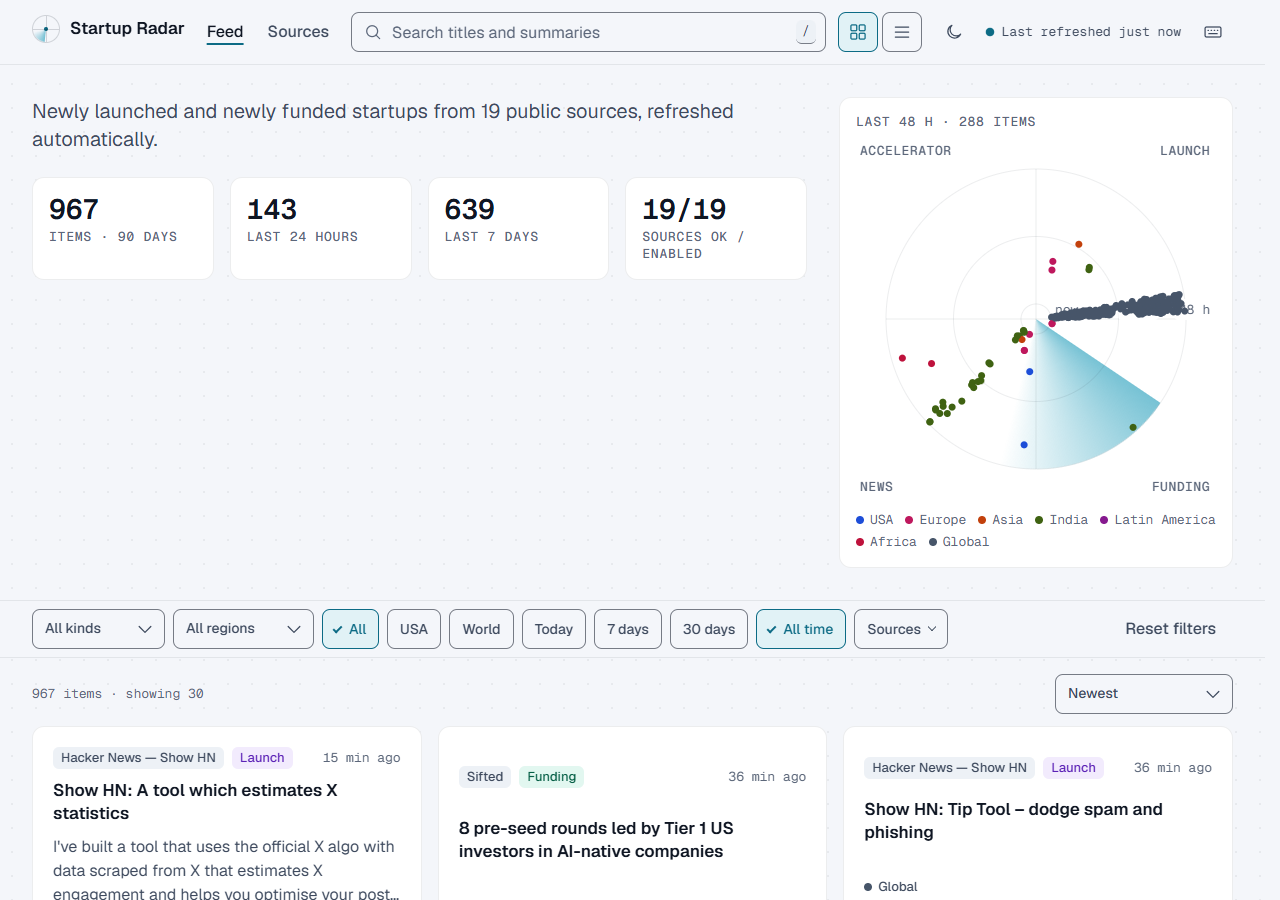
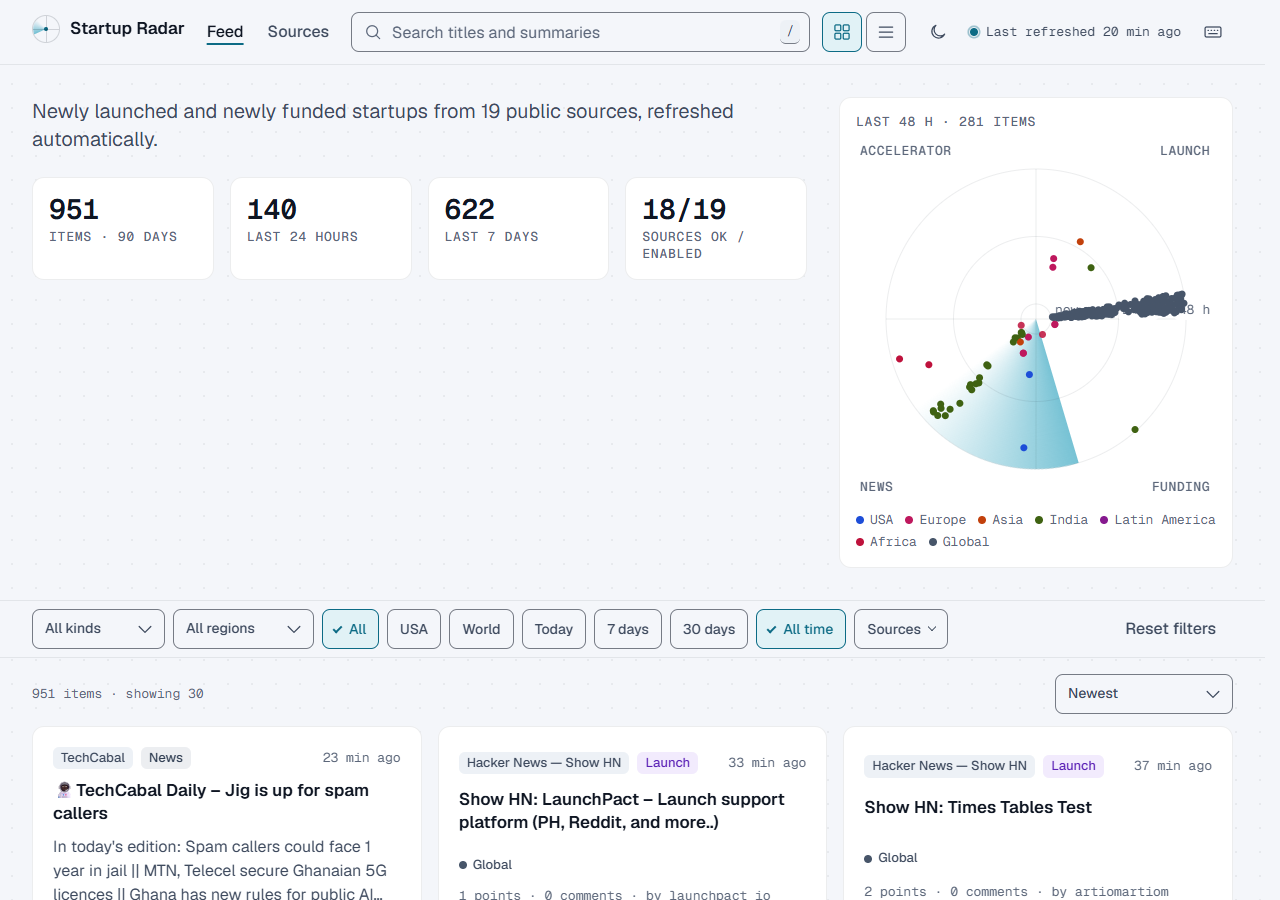
docs: live screenshots
Re-captured home, detail, light, mobile and sources from https://sudish007.github.io/startup-radar/ (viewport only; Edge via Playwright). README: note the live captures and fix the home.png caption (three card columns at 1280 px).

diff --git a/README.md b/README.md
@@ -627,10 +627,11 @@ refreshes); the 1 GB volume in `.railway/railway.ts` assumes the Hobby plan, so 
 
 ## 11. Screenshots
 
-Captured from a local run with real data by `scripts/screenshots.py` (parity mode); every image
-is the viewport only (1280 × 900 unless noted).
+Captured with real data by `scripts/screenshots.py` (parity mode against a local run); `home.png`,
+`detail.png`, `home-light.png`, `home-mobile.png` and `sources.png` were re-captured from the live
+GitHub Pages site. Every image is the viewport only (1280 × 900 unless noted).
 
-![Home page, dark theme: glass top bar with the Startup Radar wordmark, search field, grid/list toggle and theme button; hero with four stat tiles and the radar panel; the sticky filter bar; the first rows of startup cards in two columns](docs/screenshots/home.png)
+![Home page, dark theme: glass top bar with the Startup Radar wordmark, search field, grid/list toggle and theme button; hero with four stat tiles and the radar panel; the sticky filter bar; the first rows of startup cards in three columns](docs/screenshots/home.png)
 
 ![Home page filtered to kind=funding and region=USA: the result count and the cards show only USA funding items; the Kind and Region selects reflect the filter](docs/screenshots/home-filtered.png)
 
